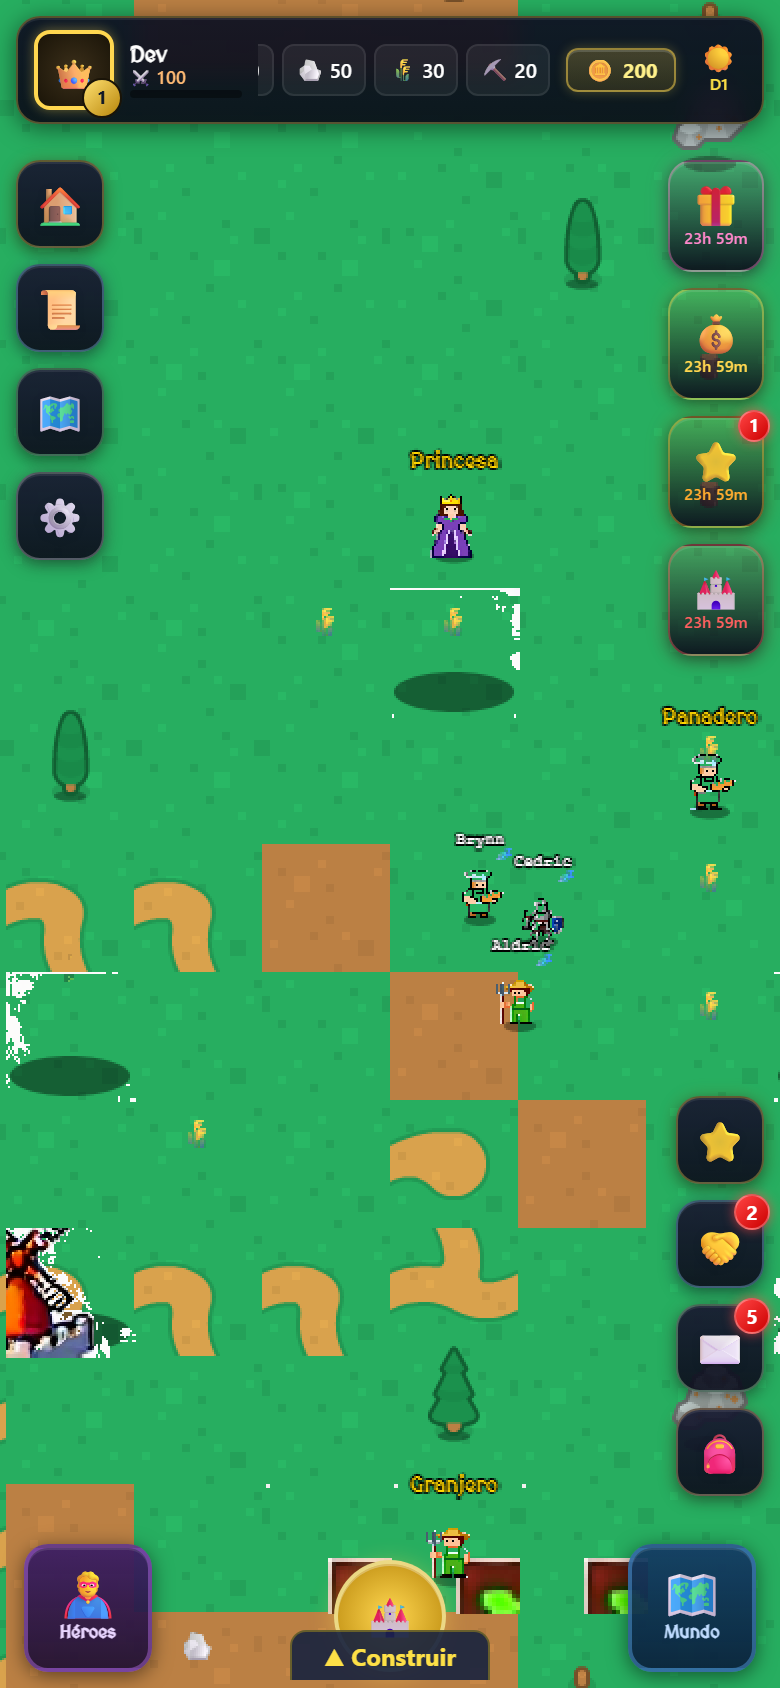
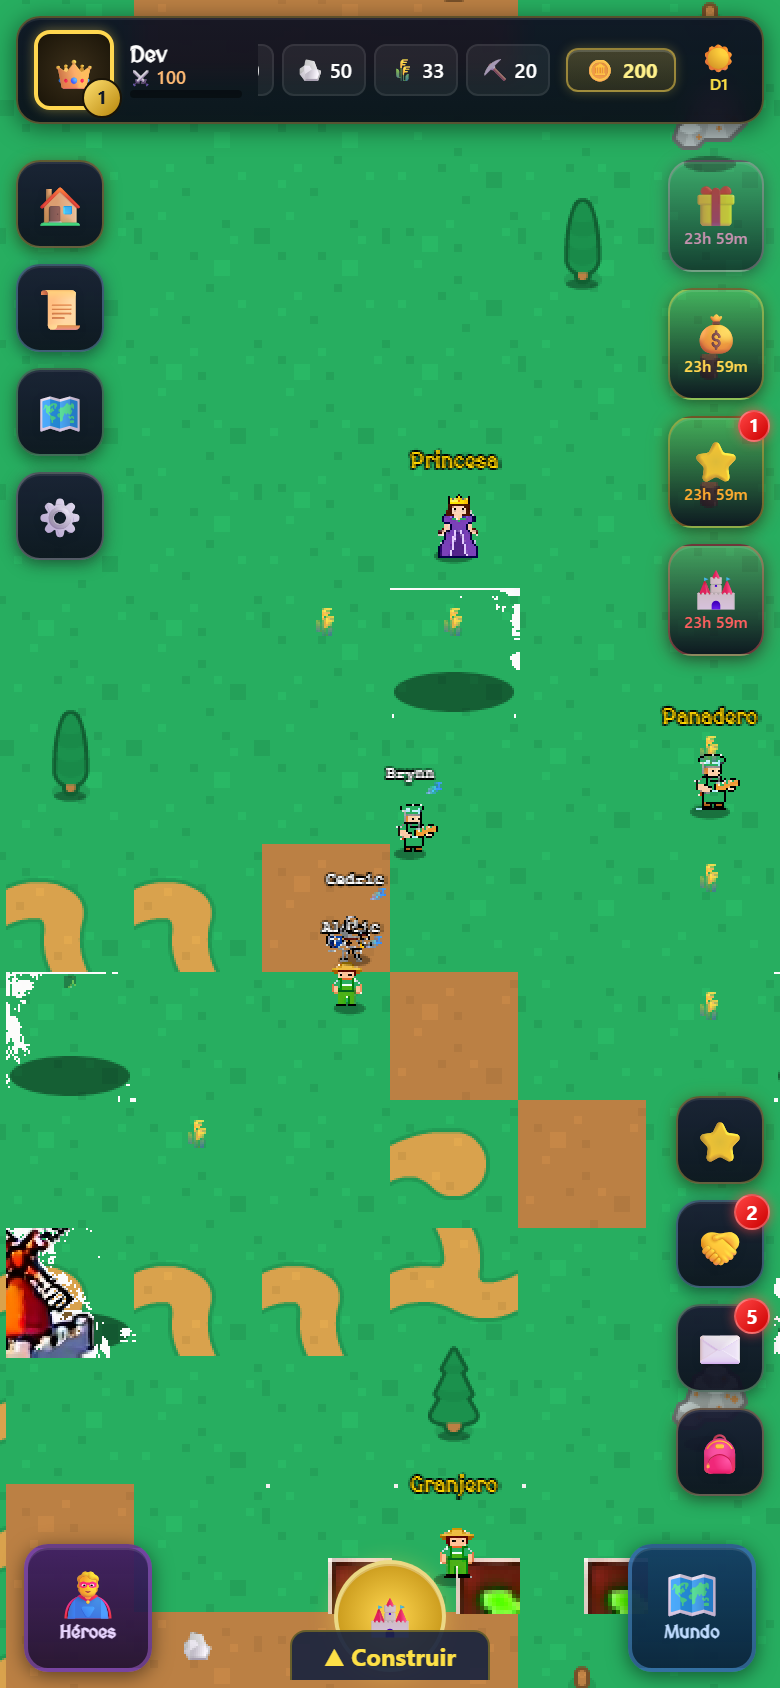
Visual polish: lighter decoration density + NPC/building layout
Two visual nits after shipping Kenney buildings and Wang autotile:

1. Decoration density — DIRT rocks dropped from 18% → 8%, grass trees
   8% → 5%, flowers 6% → 3%, snow 5% → 3%. The map felt like a rock
   graveyard; halving most per-tile chances leaves the biomes legible
   without losing texture. FOREST stays dense (45%) since that's the
   whole point of a forest.

2. NPC placement — six starter NPCs were fighting their home buildings
   for the same tile (merchant + market, knight + barracks both sat on
   top of each other). Offset each NPC one tile east/SE of their
   building so they appear to "work there" rather than "be the floor"
   of the building.

diff --git a/client/src/game/maps/IsoMapGenerator.js b/client/src/game/maps/IsoMapGenerator.js
@@ -86,27 +86,30 @@ export const RESOURCE_TYPES = {
   WHEAT: 'wheat',
 };
 
+// Chances are independent per-tile rolls. Total "non-empty" chance for a biome
+// should stay well below 0.25 or the map turns into visual noise. FOREST is the
+// exception — it's meant to look dense.
 const DECOR_RULES = {
   [BIOMES.GRASS]: [
-    { type: 'tree',   pool: DECOR_POOLS.TREE_SPARSE, chance: 0.08 },
-    { type: 'bush',   pool: DECOR_POOLS.BUSH,        chance: 0.05 },
-    { type: 'flower', pool: DECOR_POOLS.FLOWER,      chance: 0.06 },
+    { type: 'tree',   pool: DECOR_POOLS.TREE_SPARSE, chance: 0.05 },
+    { type: 'bush',   pool: DECOR_POOLS.BUSH,        chance: 0.04 },
+    { type: 'flower', pool: DECOR_POOLS.FLOWER,      chance: 0.03 },
   ],
   [BIOMES.FOREST]: [
-    { type: 'tree',   pool: DECOR_POOLS.TREE,        chance: 0.50 },
-    { type: 'bush',   pool: DECOR_POOLS.BUSH,        chance: 0.10 },
+    { type: 'tree',   pool: DECOR_POOLS.TREE,        chance: 0.45 },
+    { type: 'bush',   pool: DECOR_POOLS.BUSH,        chance: 0.08 },
   ],
   [BIOMES.DIRT]: [
-    { type: 'rock',   pool: DECOR_POOLS.ROCK,        chance: 0.18 },
-    { type: 'bush',   pool: DECOR_POOLS.BUSH,        chance: 0.04 },
+    { type: 'rock',   pool: DECOR_POOLS.ROCK,        chance: 0.08 },
+    { type: 'bush',   pool: DECOR_POOLS.BUSH,        chance: 0.03 },
   ],
   [BIOMES.SAND]: [
-    { type: 'rock',   pool: DECOR_POOLS.ROCK,        chance: 0.03 },
+    { type: 'rock',   pool: DECOR_POOLS.ROCK,        chance: 0.02 },
   ],
   [BIOMES.ICE]: [],
   [BIOMES.SNOW]: [
-    { type: 'tree',   pool: DECOR_POOLS.TREE_SPARSE, chance: 0.04 },
-    { type: 'rock',   pool: DECOR_POOLS.ROCK,        chance: 0.05 },
+    { type: 'tree',   pool: DECOR_POOLS.TREE_SPARSE, chance: 0.03 },
+    { type: 'rock',   pool: DECOR_POOLS.ROCK,        chance: 0.03 },
   ],
   [BIOMES.ROAD]: [],
 };

diff --git a/client/src/game/scenes/WorldScene.js b/client/src/game/scenes/WorldScene.js
@@ -235,14 +235,16 @@ export default class WorldScene extends Phaser.Scene {
       name: 'pasture',
     });
 
-    // NPCs scattered (check in-bounds)
+    // NPCs scattered — offsets chosen to AVOID occupying the same tile as any
+    // starter building above. Each NPC stands one tile adjacent to their
+    // home/work building, never on it.
     const npcSpots = [
-      { npcId: 'farmer',   dx:  0, dy:  5, name: 'Granjero' },
-      { npcId: 'baker',    dx:  2, dy: -1, name: 'Panadero' },
-      { npcId: 'merchant', dx: -5, dy: -1, name: 'Comerciante' },
-      { npcId: 'knight',   dx: -6, dy:  4, name: 'Capitán' },
-      { npcId: 'princess', dx:  0, dy: -3, name: 'Princesa' },
-      { npcId: 'wizard',   dx:  5, dy: -2, name: 'Mago' },
+      { npcId: 'farmer',   dx:  2, dy:  5, name: 'Granjero' },     // east of farm_plots
+      { npcId: 'baker',    dx:  4, dy:  0, name: 'Panadero' },     // NE of mill
+      { npcId: 'merchant', dx: -4, dy: -1, name: 'Comerciante' },  // east of market
+      { npcId: 'knight',   dx: -5, dy:  4, name: 'Capitán' },      // east of barracks
+      { npcId: 'princess', dx:  2, dy: -2, name: 'Princesa' },     // east of throne_room
+      { npcId: 'wizard',   dx:  6, dy:  0, name: 'Mago' },         // SE of tavern
     ];
     for (const n of npcSpots) {
       const x = spawn.x + n.dx, y = spawn.y + n.dy;

diff --git a/docs/PROMPT_CLAUDE_CODE_KH.md b/docs/PROMPT_CLAUDE_CODE_KH.md
@@ -1,6 +1,6 @@
 # 🏰 Kingdoms Harvest — Prompt de Continuación para Claude Code (Opus 4.6)
 
-> **Modelo:** `claude-opus-4-6`
+> **Modelo:** `claude-opus-4-7`
 > **Proyecto:** `C:\Users\manes\Desktop\kingdoms-harvest`
 > **Stack:** Node.js/Express + React/Vite + Phaser 3 | SQLite (sql.js) | Telegram Mini App + TON
 
